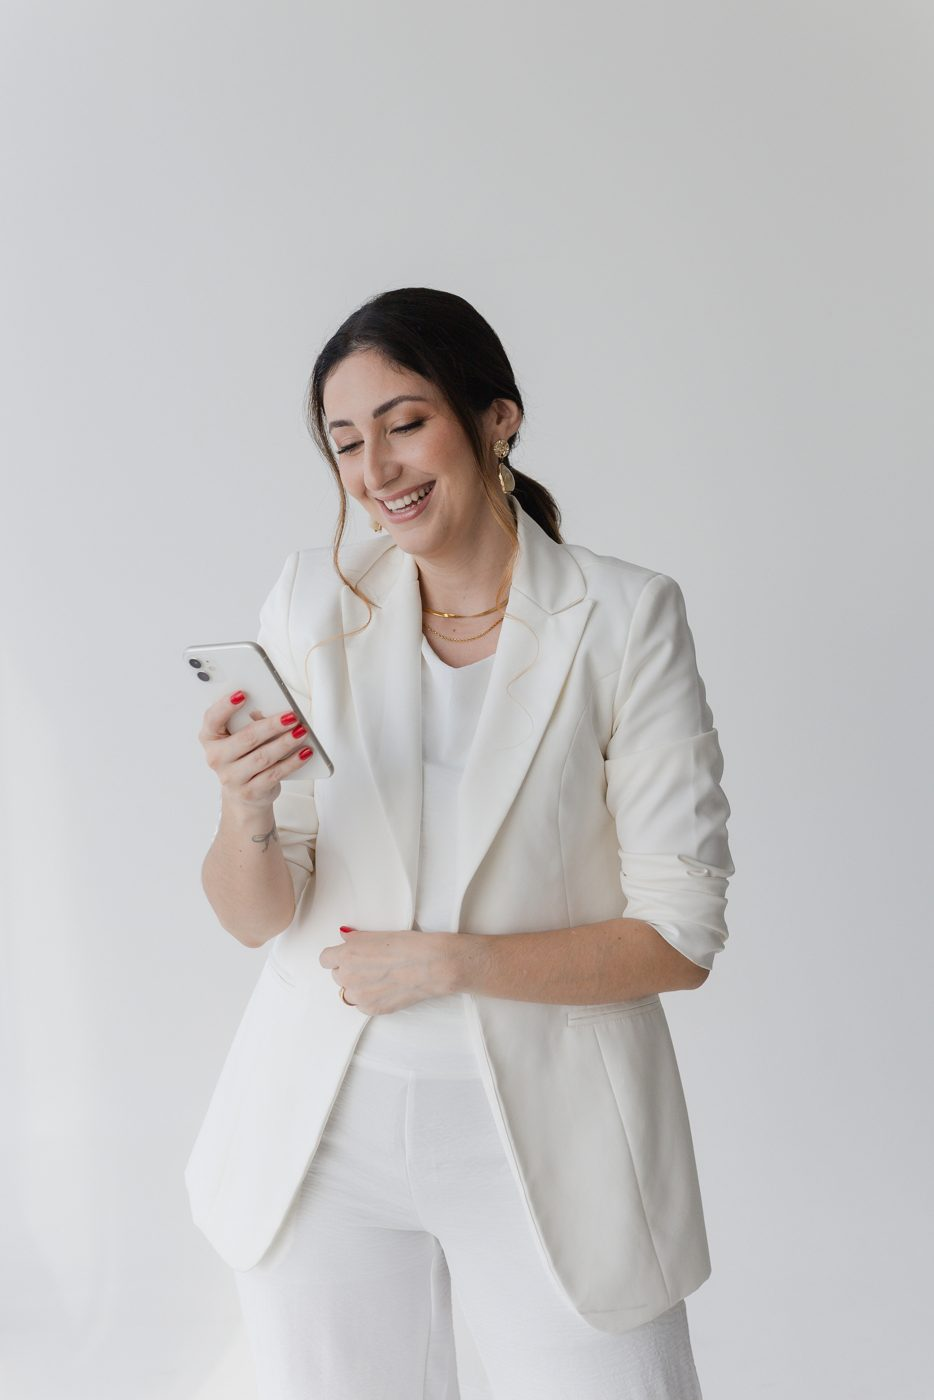
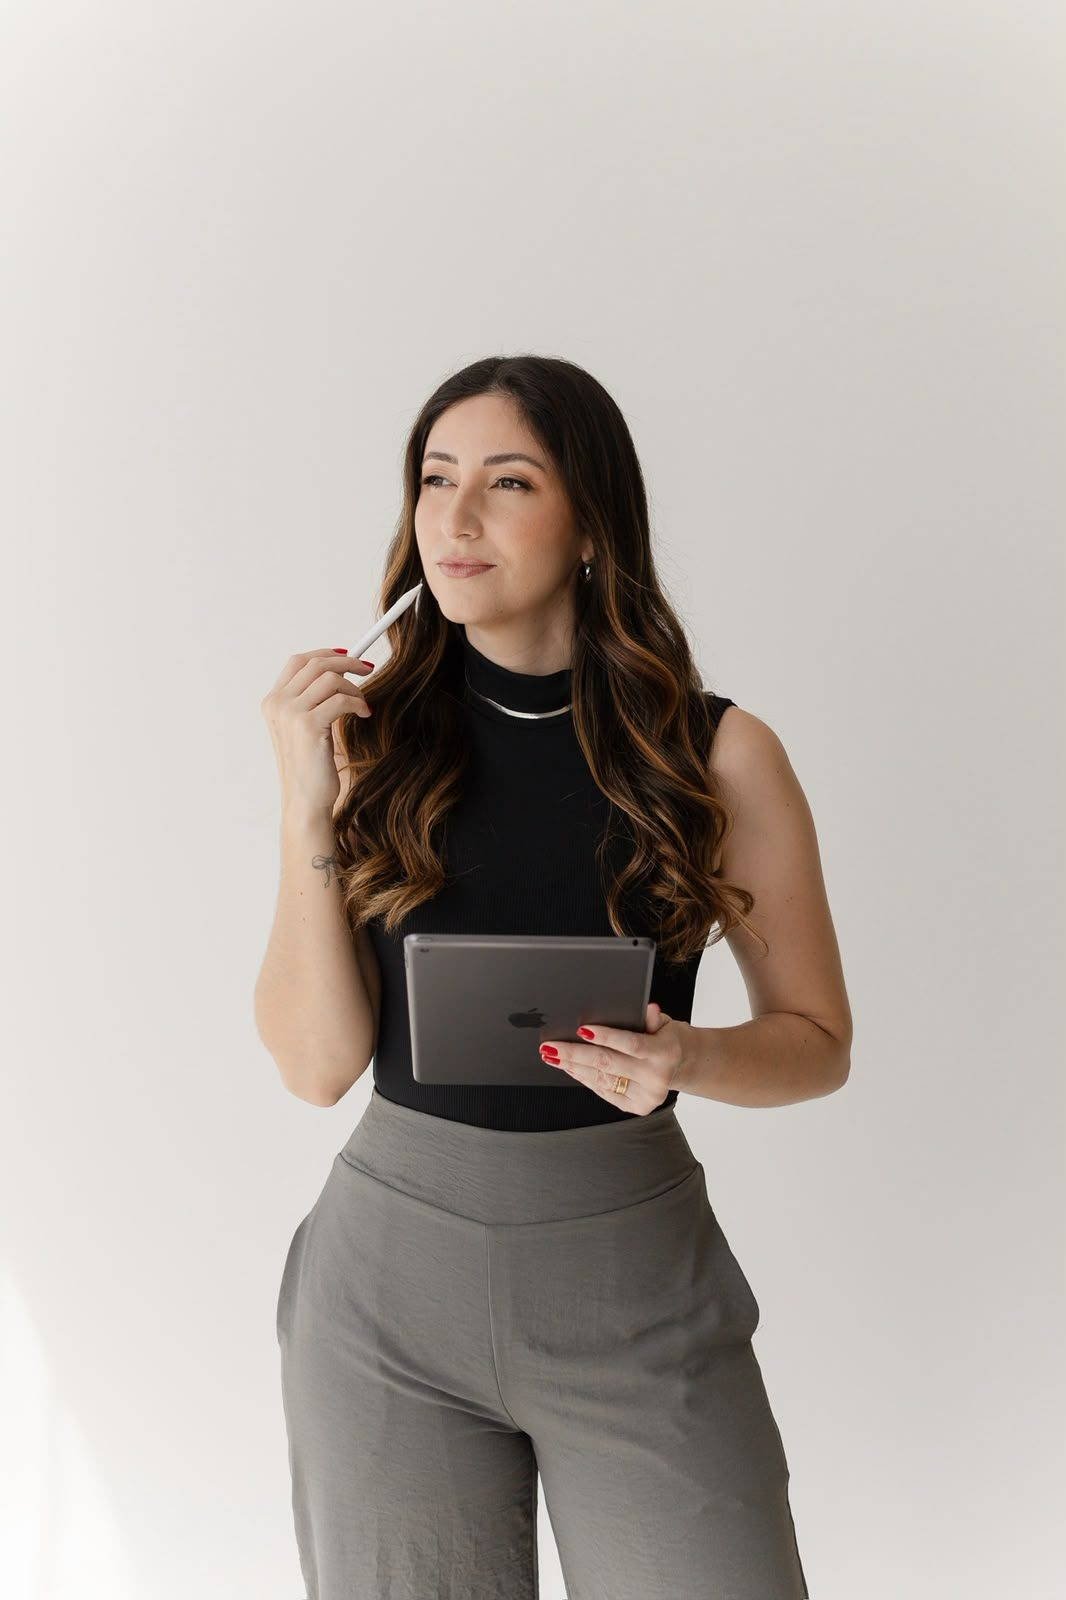
Julliany: fotos novas em alta resolução, sem repetição
Claude-Session: https://claude.ai/code/session_011KstzNs4mcEEPuQyJaX24W

diff --git a/julliany-ferreira/index.html b/julliany-ferreira/index.html
@@ -249,7 +249,7 @@ footer .base{border-top:1px solid #3a2e28;margin-top:44px;padding-top:22px;font-
     <p>Maquiagem e penteado para noivas, debutantes, formandas e eventos. Uma pele que dura a festa inteira e um resultado que continua bonito nas fotos.</p>
     <div class="btns"><a class="btn cheio" href="#agenda">Agendar horário</a><a class="link" href="#trabalhos">Ver trabalhos</a></div>
   </div>
-  <div class="hero-foto"><img src="img/hero.jpg" alt="Julliany Ferreira, maquiadora, com pincel na mão em estúdio branco"><div class="selo"><b>10 anos</b><span>de noivas, debutantes e festas</span></div></div>
+  <div class="hero-foto"><img src="img/hero.jpg?v=2" alt="Julliany Ferreira, maquiadora, em retrato de estúdio"><div class="selo"><b>10 anos</b><span>de noivas, debutantes e festas</span></div></div>
 </section>
 
 <div class="faixa" aria-hidden="true"><div class="trilho" id="trilho"></div></div>
@@ -281,7 +281,7 @@ footer .base{border-top:1px solid #3a2e28;margin-top:44px;padding-top:22px;font-
 
 <section id="servicos">
   <div class="w servicos">
-    <div class="foto revela"><img src="img/espelho.jpg" alt="Julliany Ferreira aplicando batom em frente ao celular"></div>
+    <div class="foto revela"><img src="img/espelho.jpg?v=2" alt="Julliany Ferreira aplicando batom em frente ao celular"></div>
     <div>
       <div class="revela"><span class="sobre">Atendimentos</span><h2 style="margin:18px 0 34px">Para cada <em>momento</em>, uma beleza.</h2></div>
       <div class="lista-s">
@@ -299,16 +299,16 @@ footer .base{border-top:1px solid #3a2e28;margin-top:44px;padding-top:22px;font-
   <div class="w">
     <div class="cab revela"><div><span class="sobre">Educação</span><h2>Aprenda com quem <em>vive</em> a maquiagem.</h2></div><p>Dez anos de atendimento transformados em método. Aulas práticas, com os produtos certos e a técnica explicada passo a passo.</p></div>
     <div class="cursos">
-      <article class="curso revela"><div class="img"><img src="img/pincel.jpg" alt="Julliany Ferreira segurando um pincel de maquiagem" loading="lazy"></div><div class="txt"><span class="para">Para você</span><h3>Curso de automaquiagem</h3><p>Aprenda a valorizar o seu rosto com os produtos que você já tem: pele, olhos e boca para o dia a dia e para as ocasiões especiais.</p><a class="link" href="https://wa.me/5598988014170?text=Ol%C3%A1%2C%20Julliany!%20Quero%20saber%20sobre%20o%20curso%20de%20automaquiagem." target="_blank" rel="noopener">Quero saber</a></div></article>
-      <article class="curso revela"><div class="img"><img src="img/dior.jpg" alt="Julliany Ferreira com paleta e pincel de maquiagem profissional" loading="lazy"></div><div class="txt"><span class="para">Para profissionais</span><h3>Curso de maquiagem profissional</h3><p>Técnicas de pele, olhos e durabilidade para atender noivas, debutantes e eventos com segurança e acabamento de alto padrão.</p><a class="link" href="https://wa.me/5598988014170?text=Ol%C3%A1%2C%20Julliany!%20Quero%20saber%20sobre%20o%20curso%20para%20profissionais." target="_blank" rel="noopener">Quero saber</a></div></article>
-      <article class="curso revela"><div class="img"><img src="img/celular.jpg" alt="Julliany Ferreira sorrindo com o celular na mão" loading="lazy"></div><div class="txt"><span class="para">Para a sua carreira</span><h3>Mentoria de imagem</h3><p>Acompanhamento individual para quem quer construir uma imagem forte na maquiagem: posicionamento, portfólio e presença nas redes.</p><a class="link" href="https://wa.me/5598988014170?text=Ol%C3%A1%2C%20Julliany!%20Quero%20saber%20sobre%20a%20mentoria%20de%20imagem." target="_blank" rel="noopener">Quero saber</a></div></article>
+      <article class="curso revela"><div class="img"><img src="img/pincel.jpg?v=2" alt="Julliany Ferreira com pincel de maquiagem na mão" loading="lazy"></div><div class="txt"><span class="para">Para você</span><h3>Curso de automaquiagem</h3><p>Aprenda a valorizar o seu rosto com os produtos que você já tem: pele, olhos e boca para o dia a dia e para as ocasiões especiais.</p><a class="link" href="https://wa.me/5598988014170?text=Ol%C3%A1%2C%20Julliany!%20Quero%20saber%20sobre%20o%20curso%20de%20automaquiagem." target="_blank" rel="noopener">Quero saber</a></div></article>
+      <article class="curso revela"><div class="img"><img src="img/dior.jpg?v=2" alt="Julliany Ferreira com paleta e pincel de maquiagem profissional" loading="lazy"></div><div class="txt"><span class="para">Para profissionais</span><h3>Curso de maquiagem profissional</h3><p>Técnicas de pele, olhos e durabilidade para atender noivas, debutantes e eventos com segurança e acabamento de alto padrão.</p><a class="link" href="https://wa.me/5598988014170?text=Ol%C3%A1%2C%20Julliany!%20Quero%20saber%20sobre%20o%20curso%20para%20profissionais." target="_blank" rel="noopener">Quero saber</a></div></article>
+      <article class="curso revela"><div class="img"><img src="img/celular.jpg?v=2" alt="Julliany Ferreira planejando com um tablet" loading="lazy"></div><div class="txt"><span class="para">Para a sua carreira</span><h3>Mentoria de imagem</h3><p>Acompanhamento individual para quem quer construir uma imagem forte na maquiagem: posicionamento, portfólio e presença nas redes.</p><a class="link" href="https://wa.me/5598988014170?text=Ol%C3%A1%2C%20Julliany!%20Quero%20saber%20sobre%20a%20mentoria%20de%20imagem." target="_blank" rel="noopener">Quero saber</a></div></article>
     </div>
   </div>
 </section>
 
 <section id="sobre">
   <div class="w quem">
-    <div class="fotos revela"><img src="img/banco.jpg" alt="Julliany Ferreira sentada em estúdio" loading="lazy"><img src="img/sentada.jpg" alt="Julliany Ferreira sorrindo em estúdio" loading="lazy"></div>
+    <div class="fotos revela"><img src="img/banco.jpg?v=2" alt="Julliany Ferreira sentada no chão do estúdio" loading="lazy"><img src="img/sentada.jpg?v=2" alt="Julliany Ferreira sorrindo em estúdio" loading="lazy"></div>
     <div class="revela">
       <span class="sobre">Quem é Julliany Ferreira</span>
       <blockquote>“Uso o meu talento para realçar a beleza de cada mulher que senta na minha cadeira.”</blockquote>
